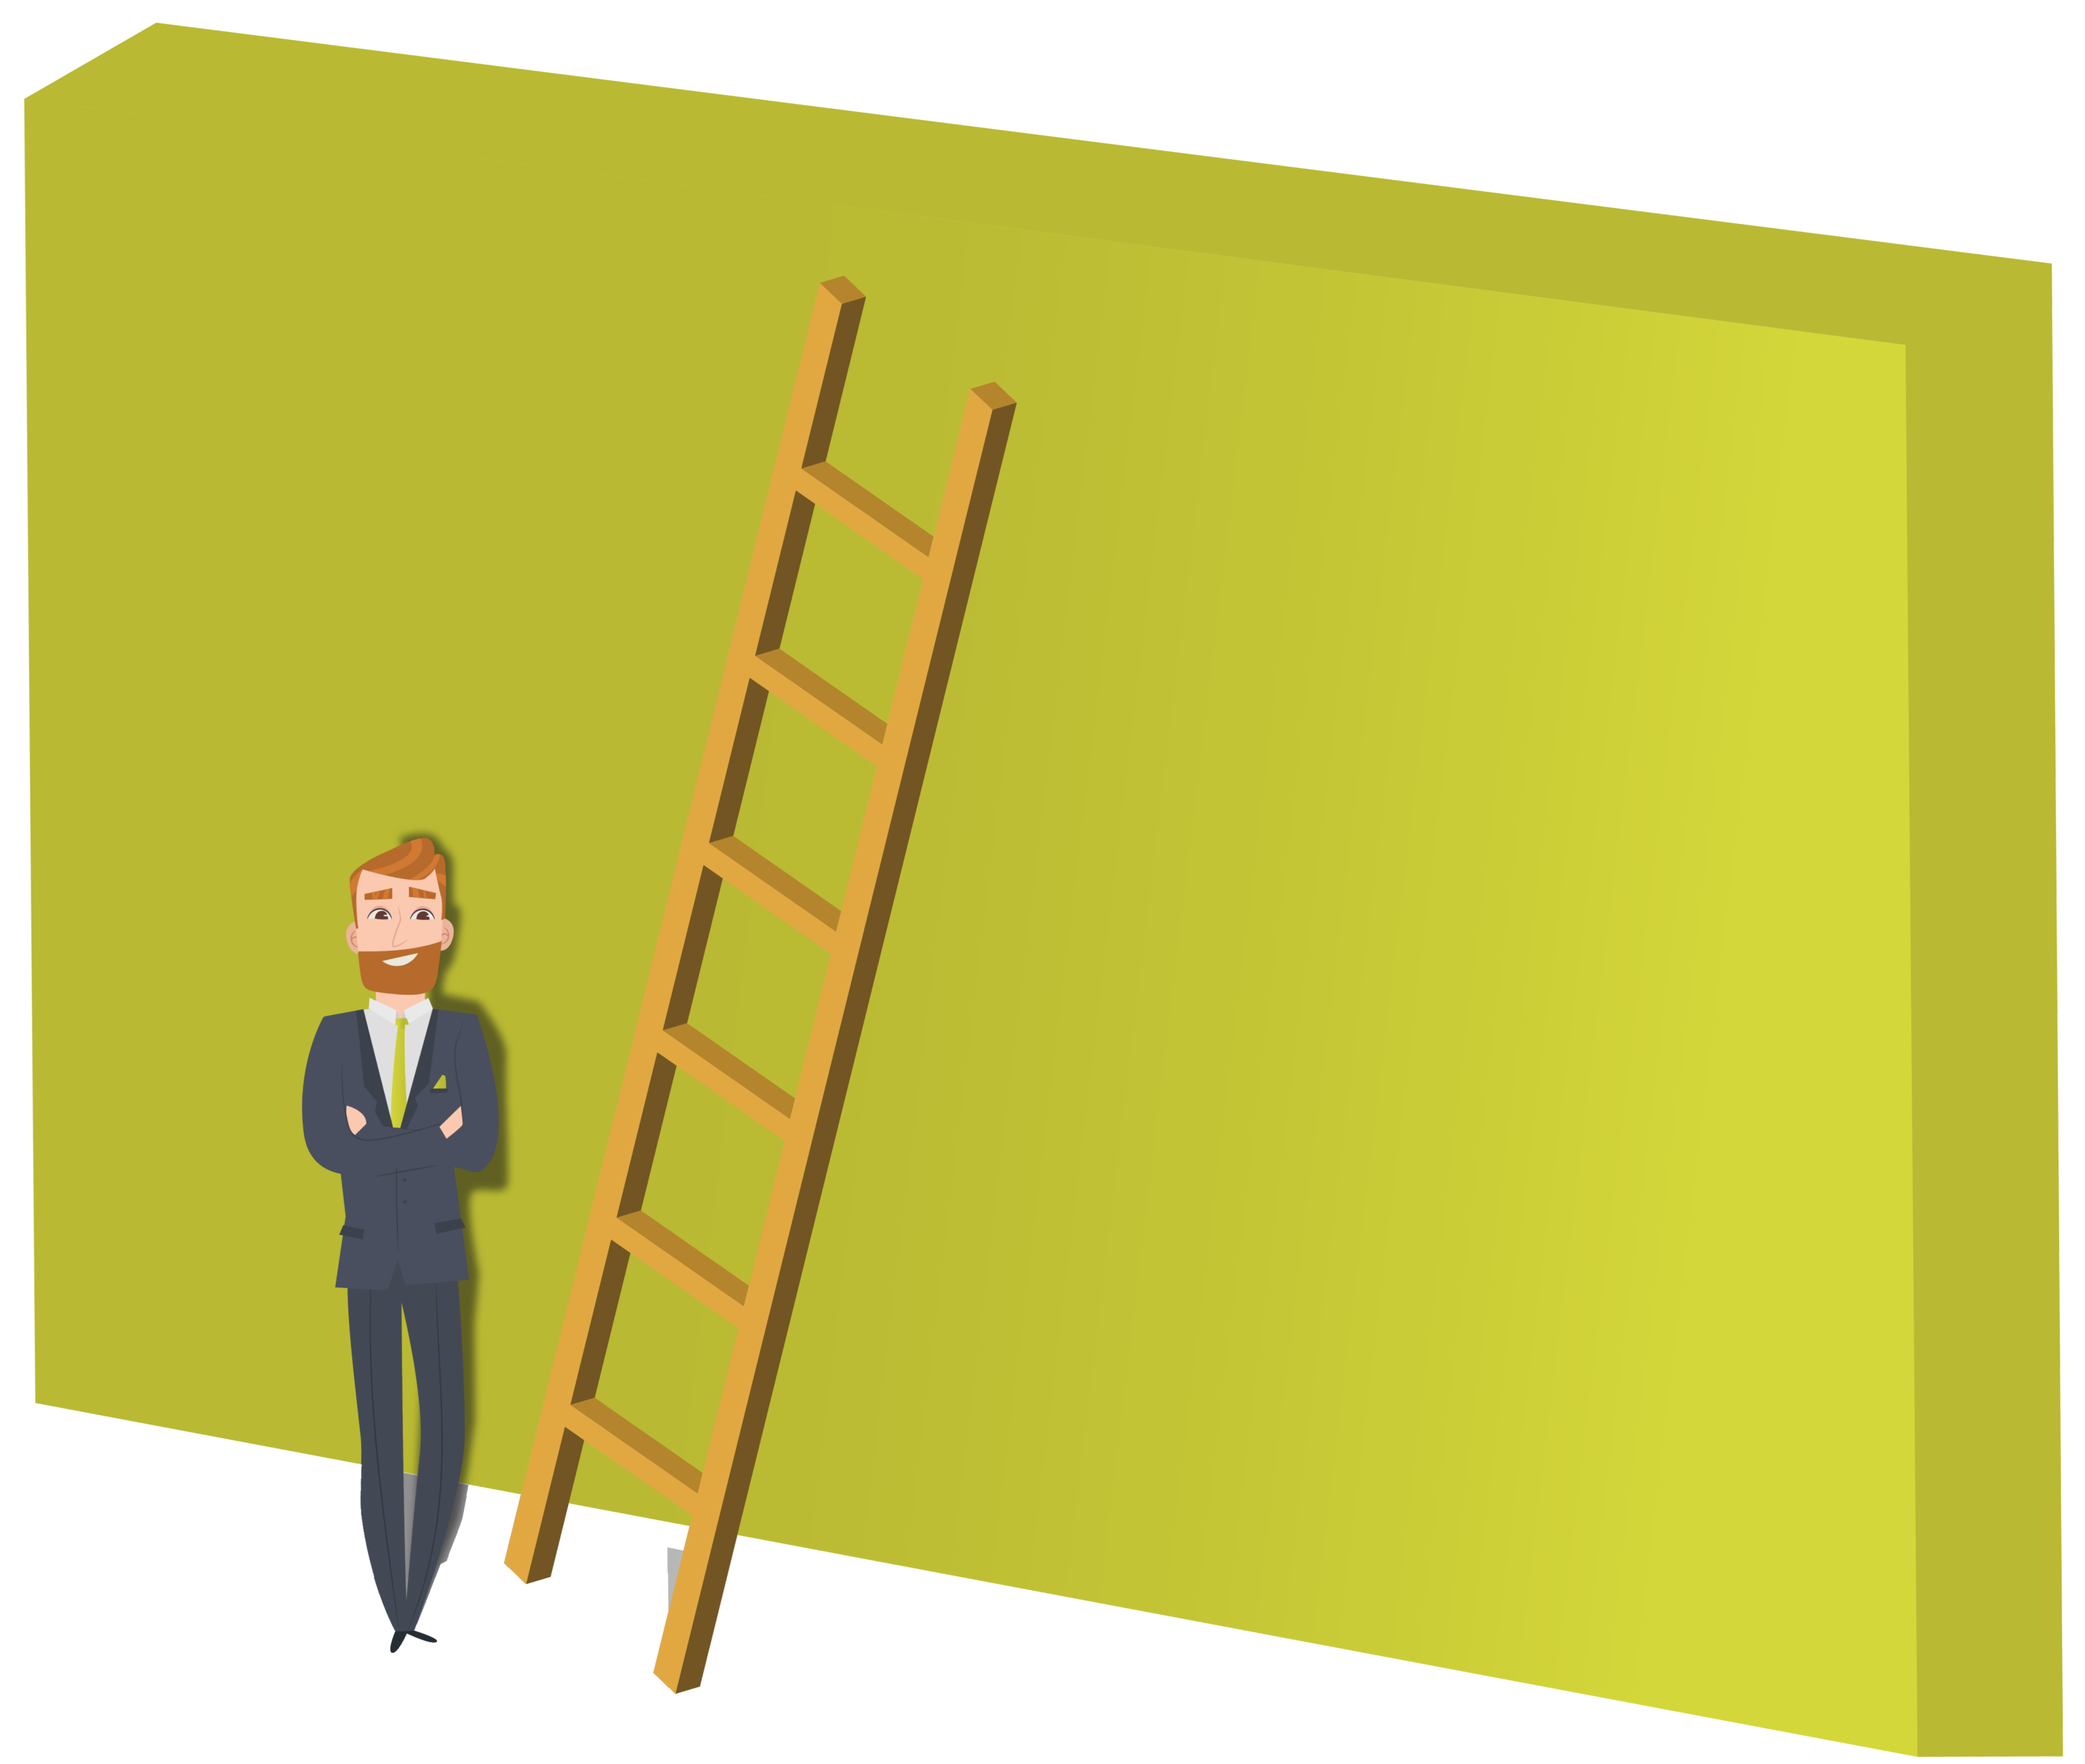
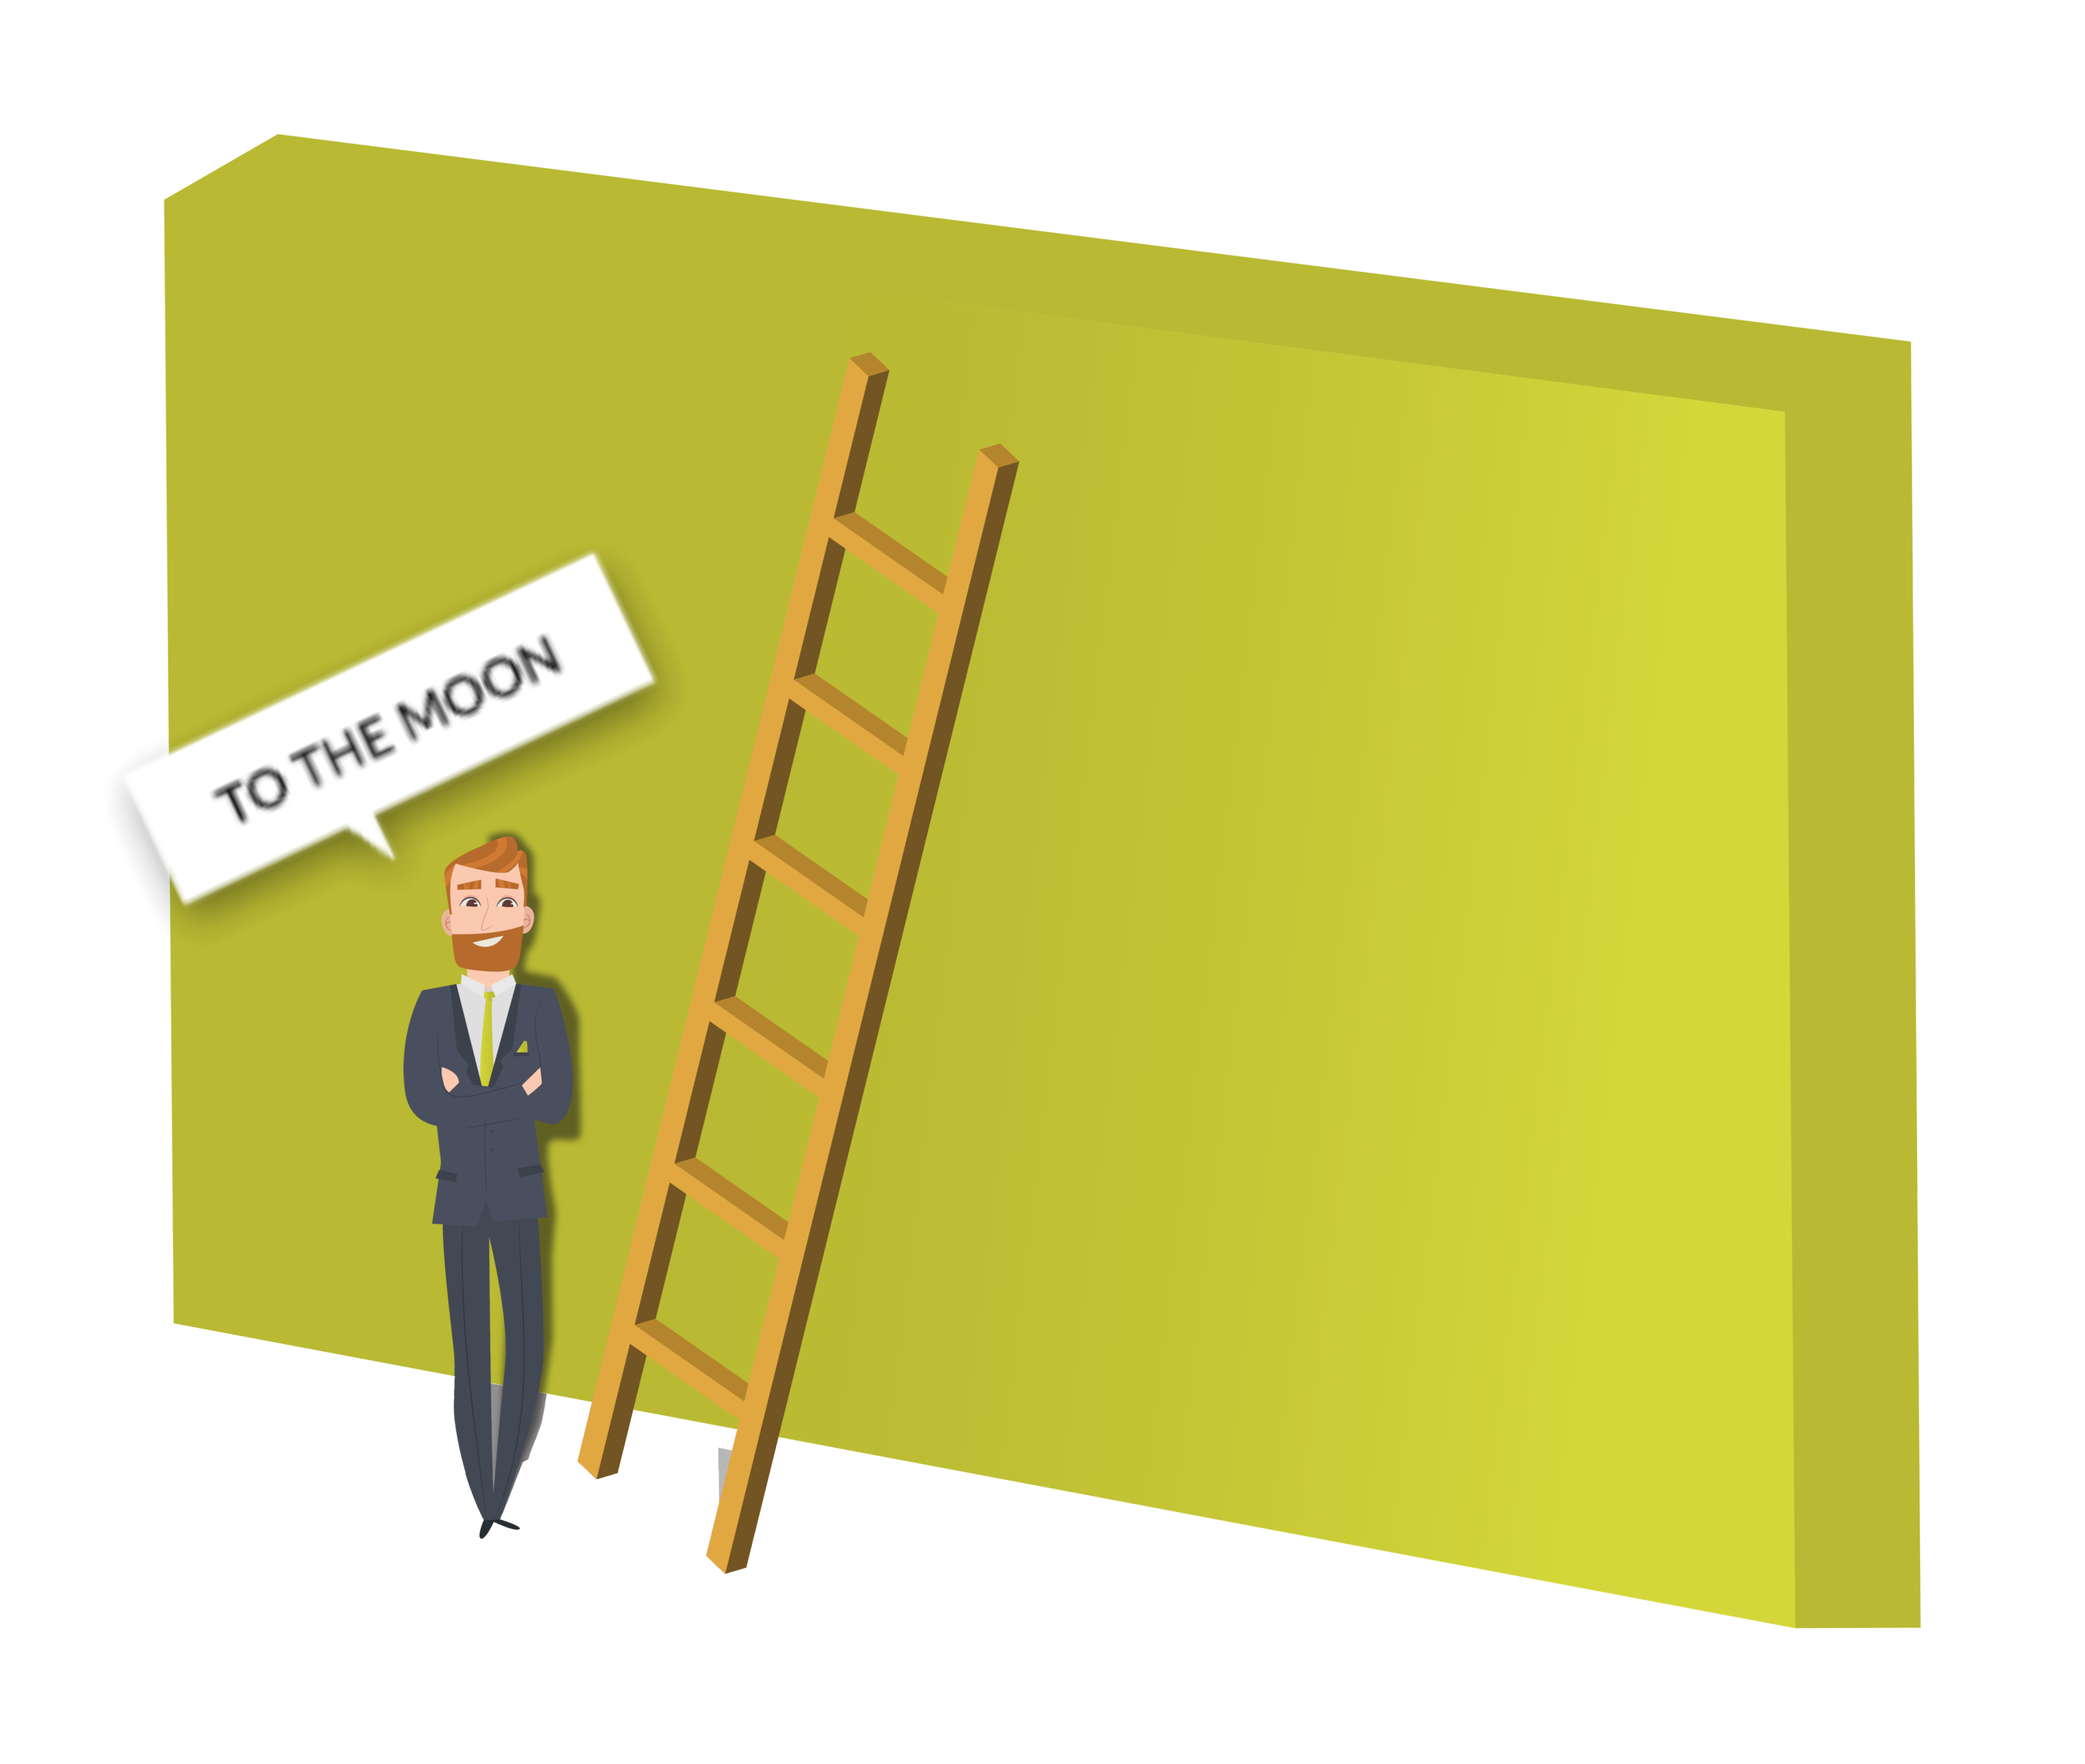
first commit

diff --git a/index.html b/index.html
@@ -86,13 +86,12 @@
 </nav>
 <!-- end nav bar -->
 
-
 <!-- start hero -->
-<section class="pt-12 py-5 bg-black sm:pt-16">
+<section class="relative pt-16 py-5 bg-black sm:pt-16 overflow-hidden">
   <div class="px-4 mx-auto max-w-7xl sm:px-6 lg:px-8">
       <div class="text-center">
           <p class="max-w-4xl mx-auto mb-4 text-4xl font-bold leading-tight text-white sm:leading-tight sm:text-5xl lg:text-6xl lg:leading-tight">
-              <span class="myColor">We go beyond</span> your expectations.
+              <span class="myColor glow">We go beyond</span> your expectations.
           </p>
           <h1 class="max-w-2xl mx-auto px-6 text-2xl text-white font-inter">
             We create brands and experiences that help our clients solve problems, 
@@ -100,28 +99,41 @@
           </h1>
       </div>
   </div>
-  <div class="mx-auto container flex px-5 py-24 md:flex-row flex-col items-center">
-    <div class="lg:flex-grow md:w-1/2 lg:pr-24 md:pr-16 flex flex-col md:items-start md:text-left mb-16 md:mb-0 items-center text-center">
-        <p class="mb-8 mt-4 leading-relaxed text-white font-normal text-2xl text-center">
-          Hi ! <br />
-          You will now climbing<br />
-          <span class="myColor">The ladder ( Taskala ) </span>
-          <br />of your ambitions
+  
+  <div class="mx-auto container flex px-5 md:flex-row flex-col items-center">
+    <div class="lg:flex-grow md:w-1/2 lg:pr-24 md:pr-16 flex flex-col md:items-start md:text-left md:mb-0 items-center text-center">
+    
+  <!-- Clouds -->
+  <div class="mb-6 text-">
+  <div class="absolute  ">
+    <img src="img/shap.png" alt="Cloud" class="w-48 h-28 shake">
+  </div>
+  <div class="absolute px-32"> 
+    <img src="img/shap.png" alt="Cloud" class="w-48 h-28 shake">
+  </div>
+</div>
+
+      <p class="mt-14 leading-relaxed text-white font-bold text-3xl">
+          Hi! <br />
+          You will now be climbing<br />
+          <span class="myColor glow">The ladder (Taskala)</span> <br />of your ambitions
         </p>
     </div>
-    <div class="lg:max-w-lg lg:w-full md:w-1/2 w-5/6 ">
-        <img class="object-cover object-center rounded" alt="hero" src="img/hero/hero.png">
+    <div class="lg:max-w-lg lg:w-full md:w-1/2 w-5/6">
+        <img class="object-cover object-center rounded " alt="hero" src="img/hero/hero.png">
     </div>
-</div>
-  <!-- Background elements -->
-  <!-- <img src="img/yellow-moon.png" alt="Moon" class="absolute right-10 top-5 w-1/6 opacity-50"> -->
   </div>
-  <!-- Bottom Wave Decoration -->
-  <!-- <div class="absolute bottom-0 left-0 right-0">
-      <svg viewBox="0 0 1440 120" fill="none" xmlns="http://www.w3.org/2000/svg">
-        <path d="M0 120L60 105C120 90 240 60 360 45C480 30 600 30 720 37.5C840 45 960 60 1080 67.5C1200 75 1320 75 1380 75L1440 75V120H1380C1320 120 1200 120 1080 120C960 120 840 120 720 120C600 120 480 120 360 120C240 120 120 120 60 120H0Z" fill="rgb(246,246,226)"/>
-      </svg>
-  </div> -->
+
+  <!-- Background elements -->
+  <img src="img/yellow-moon.png" alt="Moon" class="absolute shake-up-down right-10 top-5 w-1/6 opacity-50 animate-spin-slow">
+
+
+  <!-- Additional Bottom SVG Wave -->
+  <div class="absolute bottom-0 left-0 right-0">
+    <svg viewBox="0 0 1440 120" fill="none" xmlns="http://www.w3.org/2000/svg">
+      <path d="M0 120L60 105C120 90 240 60 360 45C480 30 600 30 720 37.5C840 45 960 60 1080 67.5C1200 75 1320 75 1380 75L1440 75V120H1380C1320 120 1200 120 1080 120C960 120 840 120 720 120C600 120 480 120 360 120C240 120 120 120 60 120H0Z" fill="rgb(246,246,226)"/>
+    </svg>
+  </div>
 </section>
 <!-- end hero -->
 

diff --git a/css/main.css b/css/main.css
@@ -121,4 +121,28 @@ background: linear-gradient(90deg, rgba(78,78,56,1) 0%, rgba(213,216,60,1) 100%)
   .shake {
     animation: shake 0.9s infinite;
   }
+
+
+  /* shake-up-down */
+  @keyframes shakeUpDown {
+    0% {
+      transform: translateY(0);
+    }
+    25% {
+      transform: translateY(-10px);
+    }
+    50% {
+      transform: translateY(10px);
+    }
+    75% {
+      transform: translateY(-10px);
+    }
+    100% {
+      transform: translateY(0);
+    }
+  }
+  
+  .shake-up-down {
+    animation: shakeUpDown 3s ease-in-out infinite;
+  }
   
